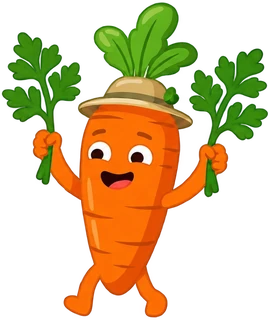
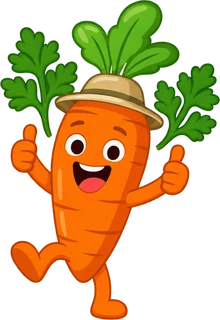
Mascotes novos em movimento (alface acenando, tomate pulando, cenoura com joinha)
Na imagem de compartilhar o mascote cabe numa área fixa, já que o tomate de
braços abertos é mais largo que alto.

diff --git a/src/components/CongratsBadge.tsx b/src/components/CongratsBadge.tsx
@@ -14,11 +14,11 @@ import { Wordmark } from './Wordmark'
 
 const APP_URL = 'https://areiasthiago.github.io/nutri-web-app/'
 
-/** Um mascote por período: alface no dia, tomate na semana, cenoura (comemorando) no mês. */
+/** Um mascote por período: alface no dia, tomate na semana, cenoura no mês. */
 const MASCOTS: Record<Mascot, { src: string; alt: string }> = {
-  tomate: { src: tomate, alt: 'Tomate sorridente' },
-  alface: { src: alface, alt: 'Alface sorridente de gravatinha' },
-  cenoura: { src: cenoura, alt: 'Cenoura comemorando com os braços para cima' },
+  tomate: { src: tomate, alt: 'Tomate pulando de alegria' },
+  alface: { src: alface, alt: 'Alface de gravatinha acenando' },
+  cenoura: { src: cenoura, alt: 'Cenoura fazendo joinha com as duas mãos' },
 }
 
 function loadImage(src: string): Promise<HTMLImageElement> {
@@ -91,10 +91,12 @@ async function badgeImage(a: Achievement, tiles: StatTileData[]): Promise<File |
   ctx.drawImage(logo, (W - lw) / 2, PAD + 56, lw, lh)
 
   const mascot = await loadImage(MASCOTS[a.mascot].src)
-  const mh = 330
-  const mw = (mascot.width / mascot.height) * mh
-  const mTop = PAD + 200
-  const mx = PAD + 50 + (240 - mw) / 2
+  // Cabe numa área de 270×330, centrado (o tomate de braços abertos é mais largo que alto).
+  const fit = Math.min(270 / mascot.width, 330 / mascot.height)
+  const mw = mascot.width * fit
+  const mh = mascot.height * fit
+  const mTop = PAD + 200 + (330 - mh) / 2
+  const mx = PAD + 30 + (270 - mw) / 2
   ctx.drawImage(mascot, mx, mTop, mw, mh)
 
   const textX = PAD + 330
@@ -102,7 +104,7 @@ async function badgeImage(a: Achievement, tiles: StatTileData[]): Promise<File |
   ctx.font = font(500, 40)
   const lines = wrap(ctx, a.detail, textW)
   const blockH = 72 + lines.length * 54
-  let ty = mTop + mh / 2 - blockH / 2 + 56
+  let ty = PAD + 200 + 165 - blockH / 2 + 56
   ctx.textAlign = 'left'
   ctx.fillStyle = '#7a4600'
   ctx.font = font(800, 62)
